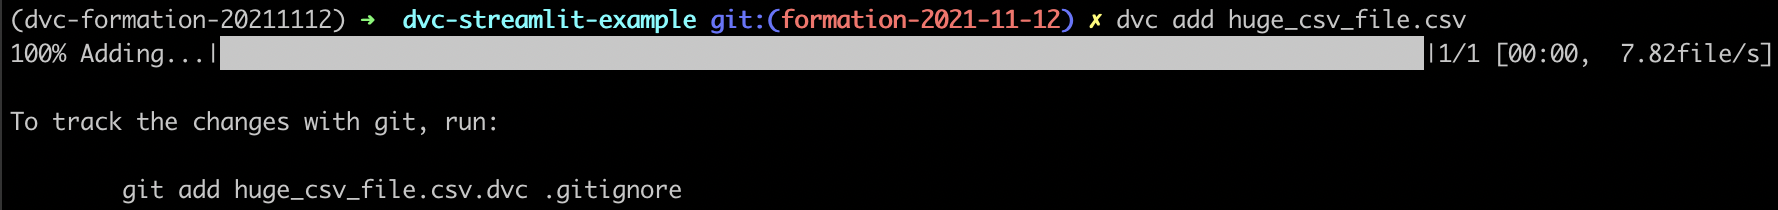
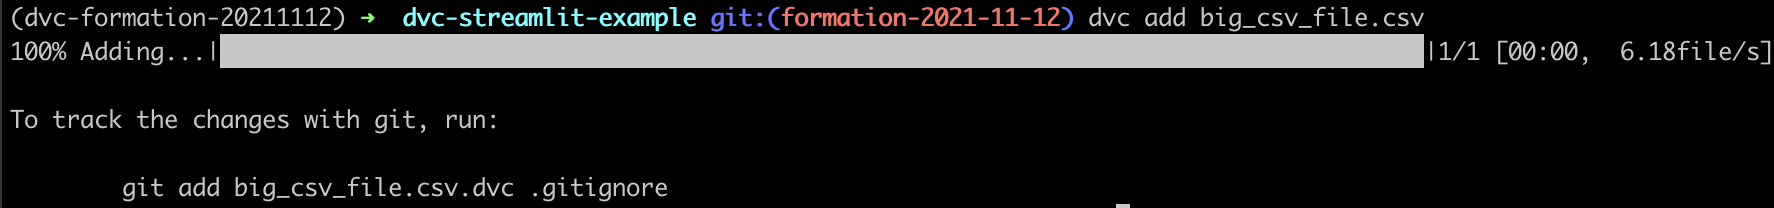
Improve section 1

diff --git a/docs/1_Basics.md b/docs/1_Basics.md
@@ -9,7 +9,8 @@
 
 ![DVC Principle](./images/dvc-principle.png)
 
-Let's try it:
+Let's try it !
+Execute the following python code:
 
 ```python
 import pandas as pd
@@ -18,34 +19,44 @@ import numpy as np
 N = int(1e6)
 
 pd.DataFrame({"col_a": range(N), "col_b": np.random.random(N)}).to_csv(
-    "huge_csv_file.csv"
+    "big_csv_file.csv"
 )
 ```
 
-File `huge_csv_file.csv` is about ~30MB. Let's add it with dvc:
+File `big_csv_file.csv` is about ~30MB. Let's add it with dvc:
 ```bash
-dvc add huge_csv_file.csv
+dvc add big_csv_file.csv
 ```
 ![dvc add](./images/dvc-add.png)
 
 It creates two files:
-1. `.gitignored` so that `huge_csv_file.csv` is not tracked with Git;
-2. `huge_csv_file.csv.dvc`: dvc metafile containing a reference to the file -> this one should be tracked with Git (`git add`).
+1. `.gitignored` so that `big_csv_file.csv` is not tracked with Git;
+2. `big_csv_file.csv.dvc`: dvc metafile containing a reference to the file -> this one should be tracked with Git (`git add`).
 
-If you `cat huge_csv_file.csv.dvc`:
+If you `cat big_csv_file.csv.dvc`:
 ```yaml
 outs:
 - md5: 15c5bb5aecb5fb33e43291322514d1da  # Hash should be different
   size: 33047824
-  path: huge_csv_file.csv
+  path: big_csv_file.csv
 ```
 
-You can check the hash `md5sum huge_csv_file.csv` (or `md5` on MacOS).
+You can check the hash `md5sum big_csv_file.csv` (or `md5` on MacOS).
+
+Track the data:
+```bash
+git add big_csv_file.csv.dvc .gitignore
+git commit -m "Track big_csv_file.csv with DVC"
+```
+
+Useful commands:
+- `dvc status big_csv_file.csv`: to check if the file `big_csv_file.csv` if up-to-date with the metafile `big_csv_file.csv.dvc`
+- `dvc commit big_csv_file.csv`: to update the metafile (try it by modifying the csv file)
 
 # 2. The Local Cache Directory
 
-What if we "lose" the CSV file? `rm huge_csv_file.csv`
-- recover the file: `dvc checkout huge_csv_file.csv.dvc`
+What if we "lose" the CSV file? `rm big_csv_file.csv`
+- recover the file: `dvc checkout big_csv_file.csv.dvc`
 
 ![dvc checkout](./images/dvc-checkout.png)
 
@@ -55,24 +66,28 @@ What's happening under the hood:
 "The DVC cache is a content-addressable storage": it means that even if files have different names with same content, it gets cached **only once**.
 
 ```bash
-cp huge_csv_file.csv huge_csv_file_bis.csv
-dvc add huge_csv_file_bis.csv
+cp big_csv_file.csv big_csv_file_bis.csv
+dvc add big_csv_file_bis.csv
+git add big_csv_file_bis.csv.dvc .gitignore
+git commit -m "Track another file with DVC"
 ```
 
 It works with directories!
 ```bash
-mkdir huge_dir
-mv huge_csv_file*.csv huge_dir
-dvc add huge_dir
+mkdir big_dir
+mv big_csv_file*.csv big_dir
+dvc add big_dir
+git add big_dir.dvc .gitignore
+git commit -m "Track a directory with DVC"
 ```
 
-If you `cat huge_dir.dvc`:
+If you `cat big_dir.dvc`:
 ```yaml
 outs:
 - md5: 20756b033f98bc1767c575a0e8e15417.dir  # Hash should be different
   size: 66095648
   nfiles: 2
-  path: huge_dir
+  path: big_dir
 ```
 
 If you look at `20756b033f98bc1767c575a0e8e15417.dir` in the cache:
@@ -80,11 +95,11 @@ If you look at `20756b033f98bc1767c575a0e8e15417.dir` in the cache:
 [
   {
     "md5": "15c5bb5aecb5fb33e43291322514d1da",
-    "relpath": "huge_csv_file.csv"
+    "relpath": "big_csv_file.csv"
   },
   {
     "md5": "15c5bb5aecb5fb33e43291322514d1da",
-    "relpath": "huge_csv_file_bis.csv"
+    "relpath": "big_csv_file_bis.csv"
   }
 ]
 ```
@@ -93,8 +108,8 @@ If you look at `20756b033f98bc1767c575a0e8e15417.dir` in the cache:
 
 There are files you'll never want to be tracked e.g., `.DS_Store` files (MacOs).
 ```bash
-touch huge_dir/.DS_Store  # Some file you do not want to track
-dvc status huge_dir
+touch big_dir/.DS_Store  # Some file you do not want to track
+dvc status big_dir
 ```
 ![DVC status](./images/dvc-status.png)
 
